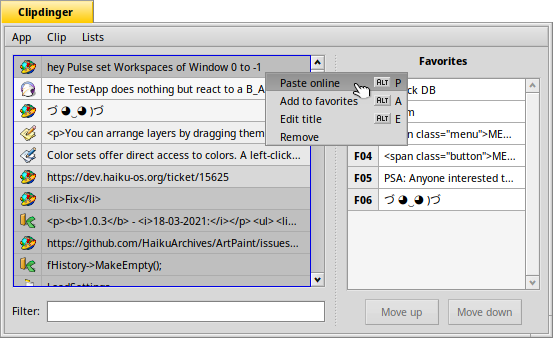
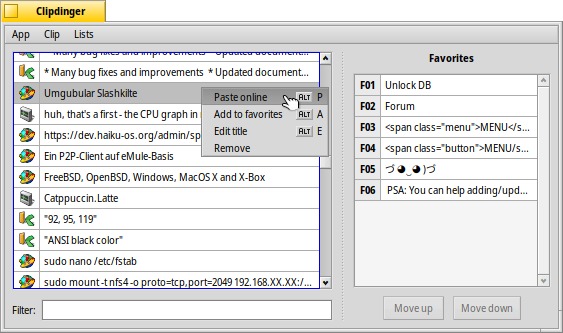
Update documentation
* Use font Noto Sans
* Use screenshot without "fading" feature
* Documentation update

diff --git a/ReadMe.html b/ReadMe.html
@@ -12,7 +12,7 @@
 
 body {
     font-size: 0.9em;
-	font-family: "DejaVu Sans",Arial,Helvetica,sans-serif;
+	font-family: "Noto Sans",Arial,Helvetica,sans-serif;
 	line-height: 1.5;
 	margin: 40px;
 	min-width: 45em;
@@ -108,7 +108,7 @@ for <a href="https://www.haiku-os.org">Haiku</a><br />
 
 <p>If you want to paste some text that isn't in the clipboard any more, simply hit <span class="key">SHIFT</span> <span class="key">ALT</span> <span class="key">V</span> or click the icon in the Deskbar tray to summon the Clipdinger window. There you can select an entry with the <span class="key">↑</span> / <span class="key">↓</span> keys and put it into the clipboard or auto-paste it by hitting <span class="key">RETURN</span>.</p>
 <p>After selecting a clip, you can also paste it to an online text pasting service by hitting <span class="key">ALT</span> <span class="key">P</span>. The returned URL for the clip is put into the clipboard for you to paste into your email or IRC channel etc.</p>
-<p><span class="key">ESC</span> or <span class="key">ALT</span> <span class="key">W</span> aborts and minimizes the Clipdinger window.</p>
+<p><span class="key">ESC</span> or <span class="key">ALT</span> <span class="key">W</span> aborts and minimizes the Clipdinger window. The close button of the window tab also minimizes; if you really want Clipdinger to quit, you need to press <span class="key">ALT</span> <span class="key">Q</span>.</p>
 
 <h2>
 <a href="#"><img src="images/up.png" style="border:none;float:right" alt="index" /></a>
@@ -166,6 +166,7 @@ Below the sliders is a summary of your setting in plain English.</p>
 <li><p>Pasting to an online service fails, if Clipdinger is unable to write the clip to a temporary file (<tt>/tmp/clip_upload</tt>).</p></li>
 <li><p>Changes in the settings window can be viewed live in the main window. To find the right fading settings for you, it's best to keep working normally for some time to fill the history and then just play around with the sliders until you're satisfied.</p></li>
 <li><p>Clipdinger's <span class="menu">Auto-paste</span> feature can be a bit tricky: It doesn't know in which application's window you pressed <span class="key">SHIFT</span> <span class="key">ALT</span> <span class="key">V</span> for it to pop up. With activated auto-paste, it simply pastes into last window that was active before you hit <span class="key">RETURN</span> or double-clicked an entry. So, avoid detours...</p></li>
+<li><p>Removing the last remaining clip in the history will empty the clipboard. Naturally, because being the top clip it is the contents of the clipboard.</p></li>
 <li><p>If you want to back-up Clipdinger's settings, history or favorites, or have the need to delete one or all of these files, you'll find them under <span class="path">/boot/home/config/settings/Clipdinger/</span>.</p></li>
 <li><p>If the replicant of the Clipboard monitor unexpectedly gives you grief (or any replicant for that matter), you can remove all replicants on the Desktop by deleting <span class="path">/boot/home/config/settings/Tracker/tracker_shelf</span>.</p></li>
 <li><p>If you've used Clipdinger before v0.5.5, you can now remove the link to it in the <span class="path">/boot/home/config/settings/boot/launch/</span>  folder and use the new setting to auto-start instead.</p></li> 
@@ -192,6 +193,16 @@ Also, thanks to everyone that contributed translations for Clipdinger.</p>
 <h2>
 <a href="#"><img src="images/up.png" style="border:none;float:right" alt="index" /></a>
 <a id="history" name="history">History</a></h2>
+
+<p><b>1.2.2</b> - <i>30-10-2023:</i></p>
+<ul>
+<li>Put Clipdinger directly into the apps folder instead of a "Clipdinger" subfolder there. Move docs to the documentation folder.</li>
+<li>Added close button to window tab that minimizes Clipdinger.</li>
+<li>Bugfix: Save favorites after they got re-ordered.</li>
+<li>Bugfix: Fix crash when trying to delete last clip in history.</li>
+<li>Allow deleting last clip in history, which results in emtying the clipboard.</li>
+<li>Added partial Sardinian translation, thanks zumikkebe!</li>
+</ul>
 
 <p><b>1.2.1</b> - <i>24-03-2023:</i></p>
 <ul>
